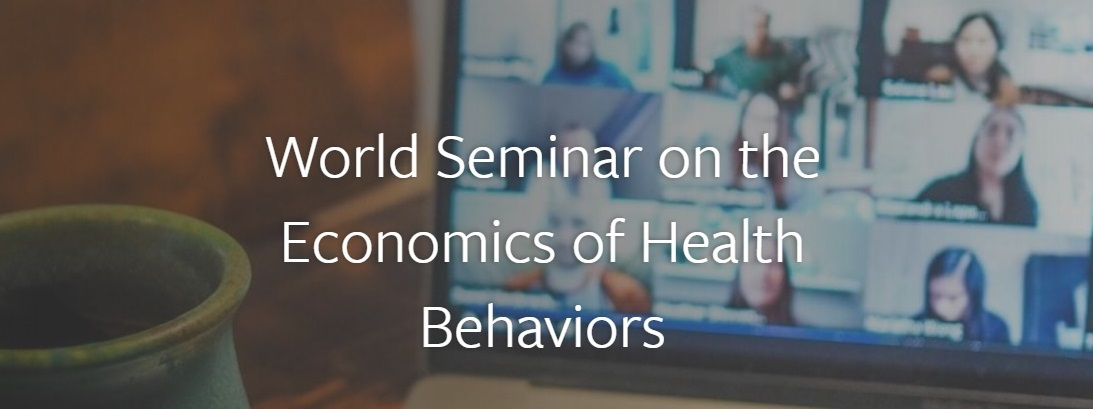
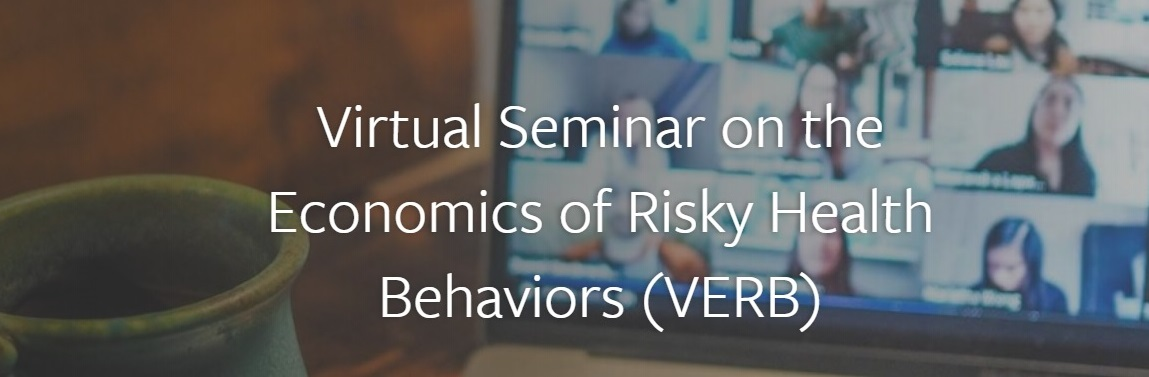
update

diff --git a/other.md b/other.md
@@ -4,6 +4,6 @@
 
 <img src="ehec_banner.jpg" width="500"/>
 
-- The [World Seminar on the Economics of Health Behaviors](https://www.human.cornell.edu/pam/research/hehbad/worldseminars) shares information on the economics of health behaviors, including smoking, alcohol abuse, drug abuse, poor diet, physical inactivity, obesity, risky sex, self-harm, and suicide.
+- The [Virtual Seminar on the Economics of Risky Health Behaviors (VERB)](https://www.human.cornell.edu/pam/research/hehbad/worldseminars) shares information on the economics of health behaviors, including smoking, alcohol abuse, drug abuse, poor diet, physical inactivity, obesity, risky sex, self-harm, and suicide.
 
 <img src="hbehavior.jpg" width="500"/>
